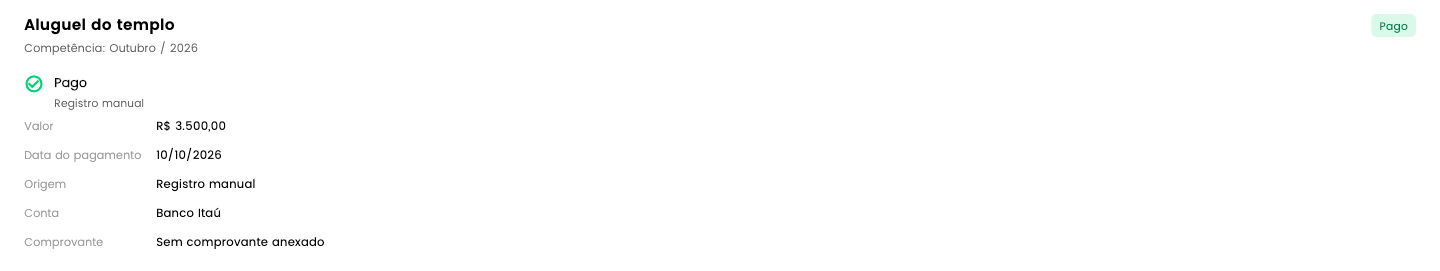
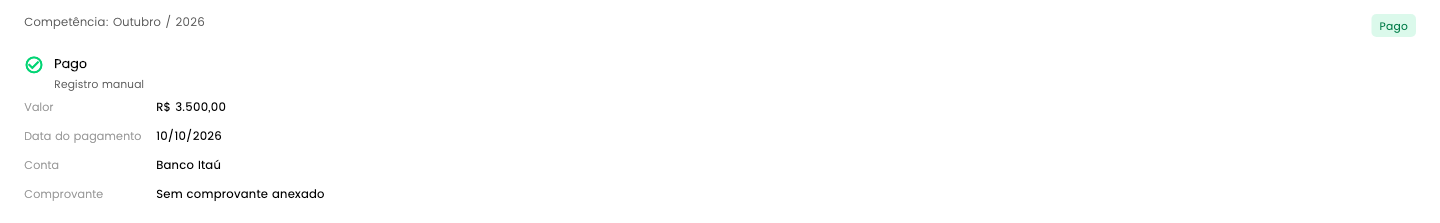
fix(recurring-payments): un solo título y sin datos repetidos en el detalle
El nombre aparecía como título del ModalPage y otra vez dentro del cuerpo, y la
origem del asiento se repetía como nota y como campo. El cuerpo queda con la
competência + el chip de estado, y los campos del pago.

diff --git a/lib/features/erp/recurring_payments/pages/monthly/widgets/recurring_payment_execution_detail_sheet.dart b/lib/features/erp/recurring_payments/pages/monthly/widgets/recurring_payment_execution_detail_sheet.dart
@@ -88,7 +88,6 @@ class RecurringPaymentExecutionDetail extends StatelessWidget {
   @override
   Widget build(BuildContext context) {
     final l10n = context.l10n;
-    final payment = item.recurringPayment;
     final execution = item.execution;
     final settlement = item.settlement;
 
@@ -96,32 +95,19 @@ class RecurringPaymentExecutionDetail extends StatelessWidget {
       crossAxisAlignment: CrossAxisAlignment.start,
       mainAxisSize: MainAxisSize.min,
       children: [
+        // O nome já é o título do modal: aqui ficam só o período e o estado.
         Row(
           crossAxisAlignment: CrossAxisAlignment.start,
           children: [
             Expanded(
-              child: Column(
-                crossAxisAlignment: CrossAxisAlignment.start,
-                children: [
-                  Text(
-                    payment.name,
-                    style: const TextStyle(
-                      fontFamily: AppFonts.fontTitle,
-                      fontSize: 17,
-                      color: Colors.black,
-                    ),
-                  ),
-                  const SizedBox(height: 4),
-                  Text(
-                    '${l10n.recurringPaymentsExecution_period_label}: '
-                    '${item.month.slashLabel}',
-                    style: const TextStyle(
-                      fontFamily: AppFonts.fontText,
-                      fontSize: 12.5,
-                      color: Color(0xFF5F5F5F),
-                    ),
-                  ),
-                ],
+              child: Text(
+                '${l10n.recurringPaymentsExecution_period_label}: '
+                '${item.month.slashLabel}',
+                style: const TextStyle(
+                  fontFamily: AppFonts.fontText,
+                  fontSize: 13,
+                  color: Color(0xFF5F5F5F),
+                ),
               ),
             ),
             const SizedBox(width: 10),
@@ -252,13 +238,7 @@ class RecurringPaymentExecutionDetail extends StatelessWidget {
           settlement.date?.toIso8601String().substring(0, 10),
         ),
       ),
-      _DetailField(
-        label: l10n.recurringPaymentsExecution_field_origin,
-        value:
-            settlement.isManual
-                ? l10n.recurringPaymentsExecution_origin_manual
-                : l10n.recurringPaymentsExecution_origin_bank,
-      ),
+      // A origem já é a descrição da nota de estado: não se repete como campo.
       if (accountName != null)
         _DetailField(
           label: l10n.recurringPaymentsExecution_field_account,
